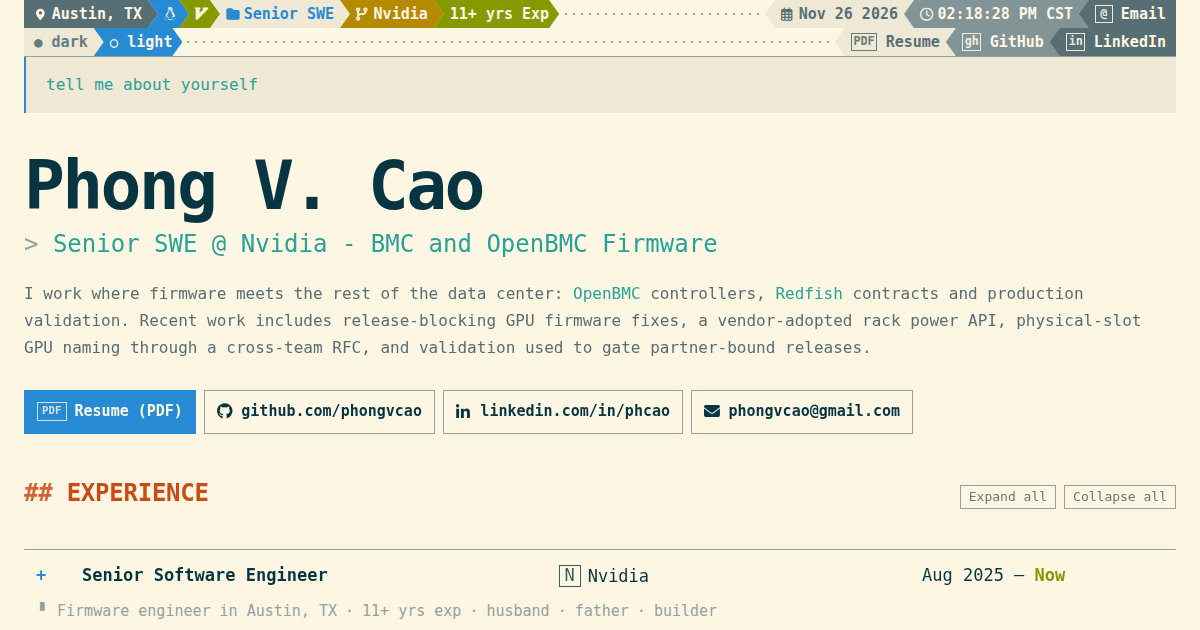
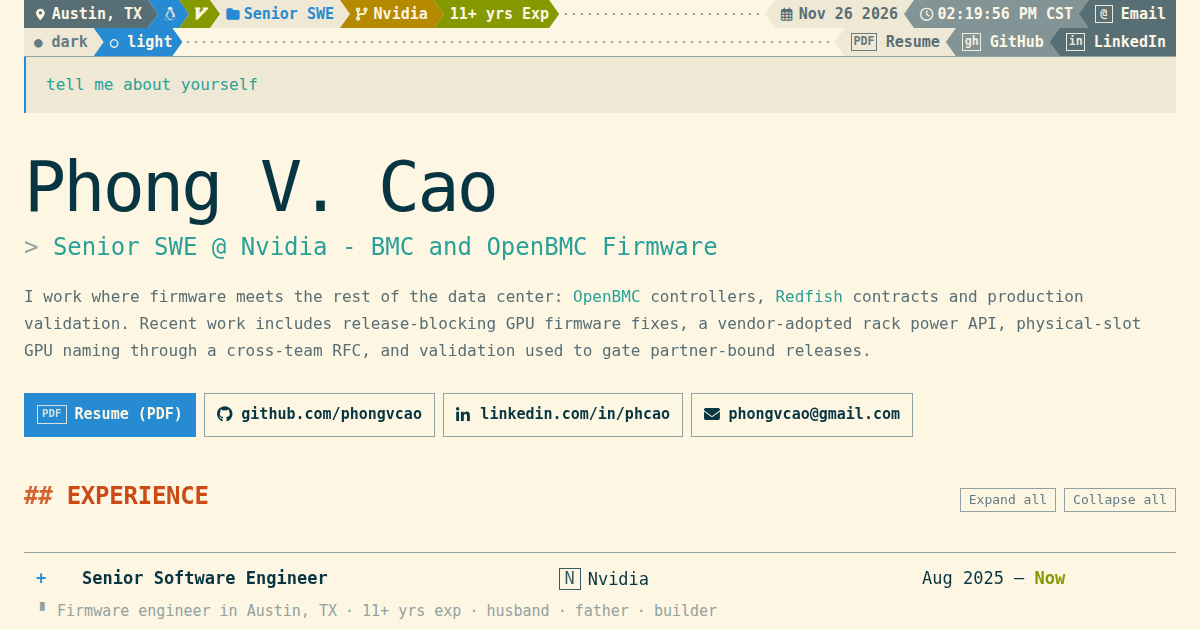
site: the name is regular weight, two pixels larger
The h1 carries the size, not the weight: 70 px cap, weight 400, cursor unchanged.

diff --git a/styles.css b/styles.css
@@ -157,8 +157,8 @@ a:hover {
 h1 {
   margin: 0 0 8px;
   color: var(--base2);
-  font-size: clamp(2.5rem, 6vw, 4.25rem);
-  font-weight: 700;
+  font-size: clamp(2.5rem, 6vw, 4.375rem);
+  font-weight: 400;
   line-height: 1.02;
   letter-spacing: -0.04em;
 }
